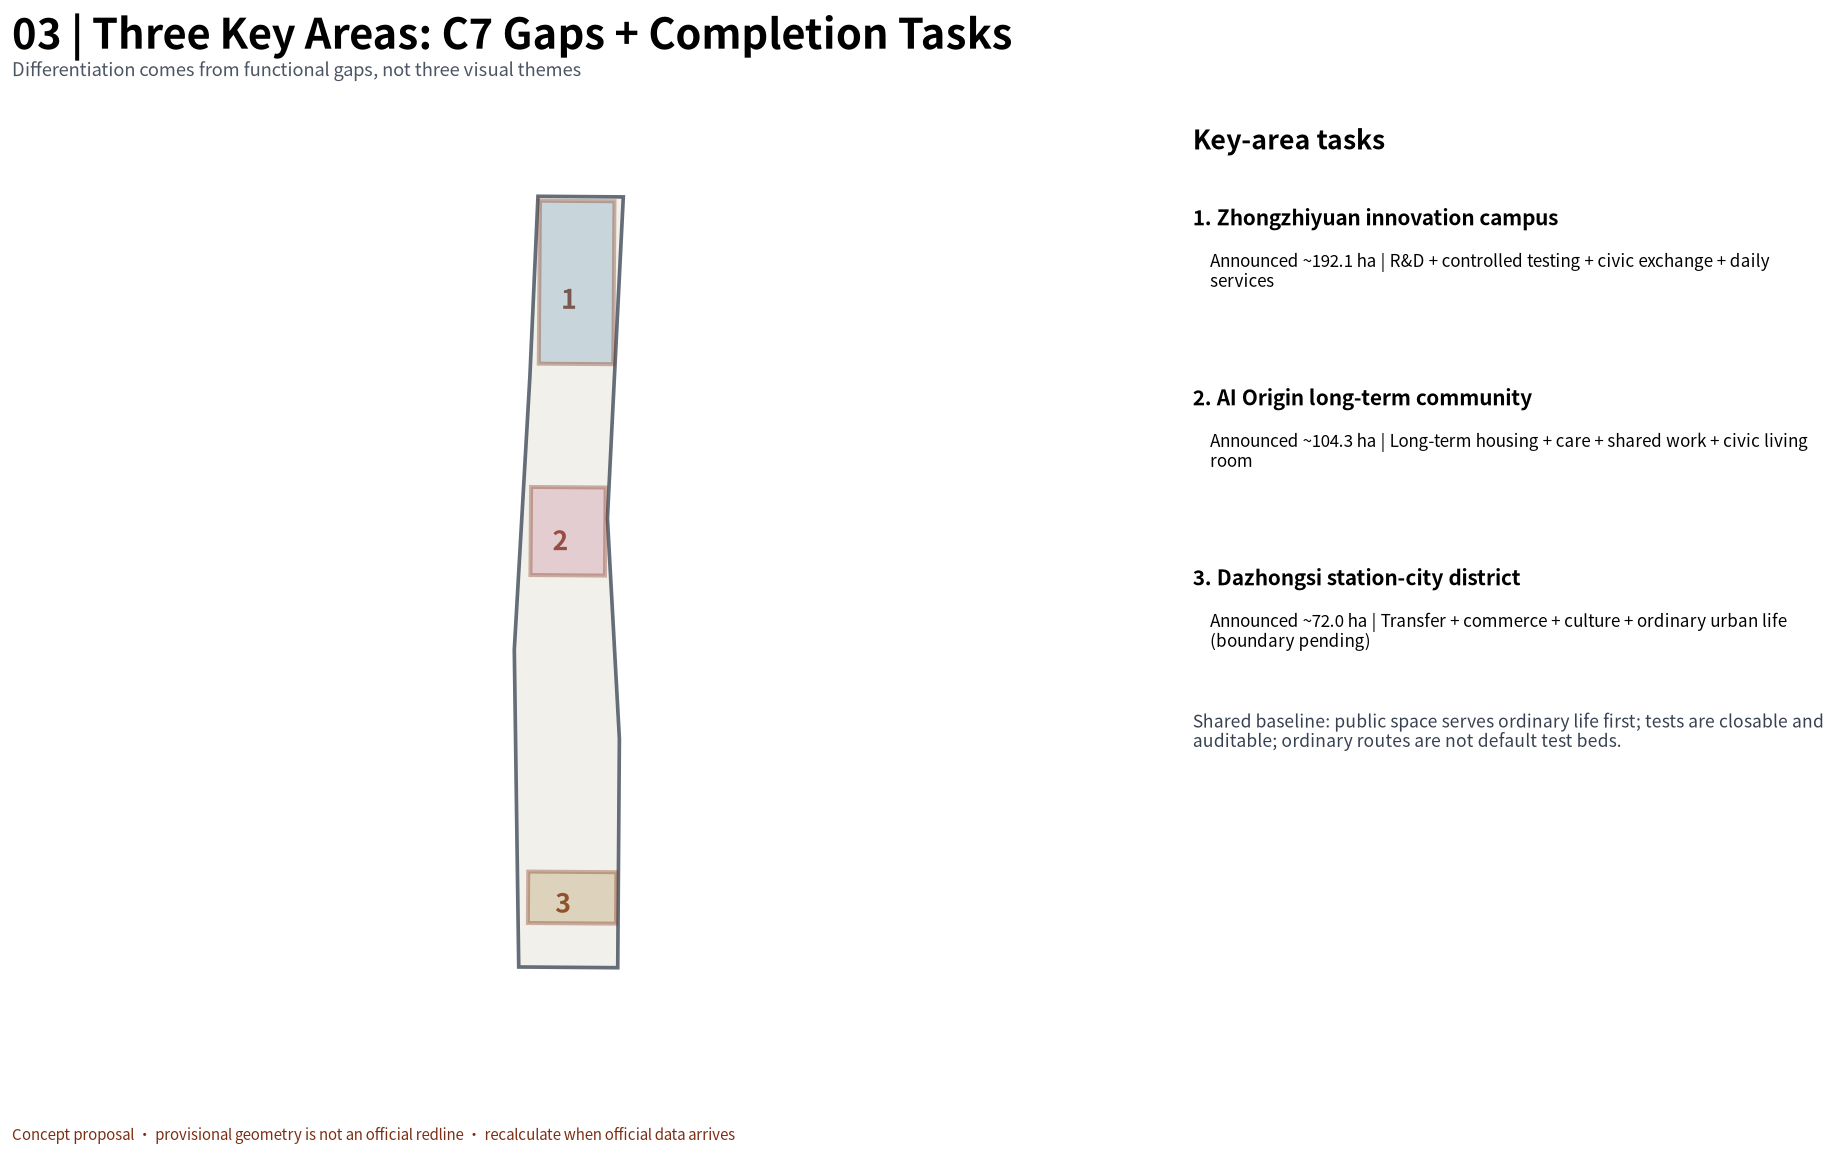
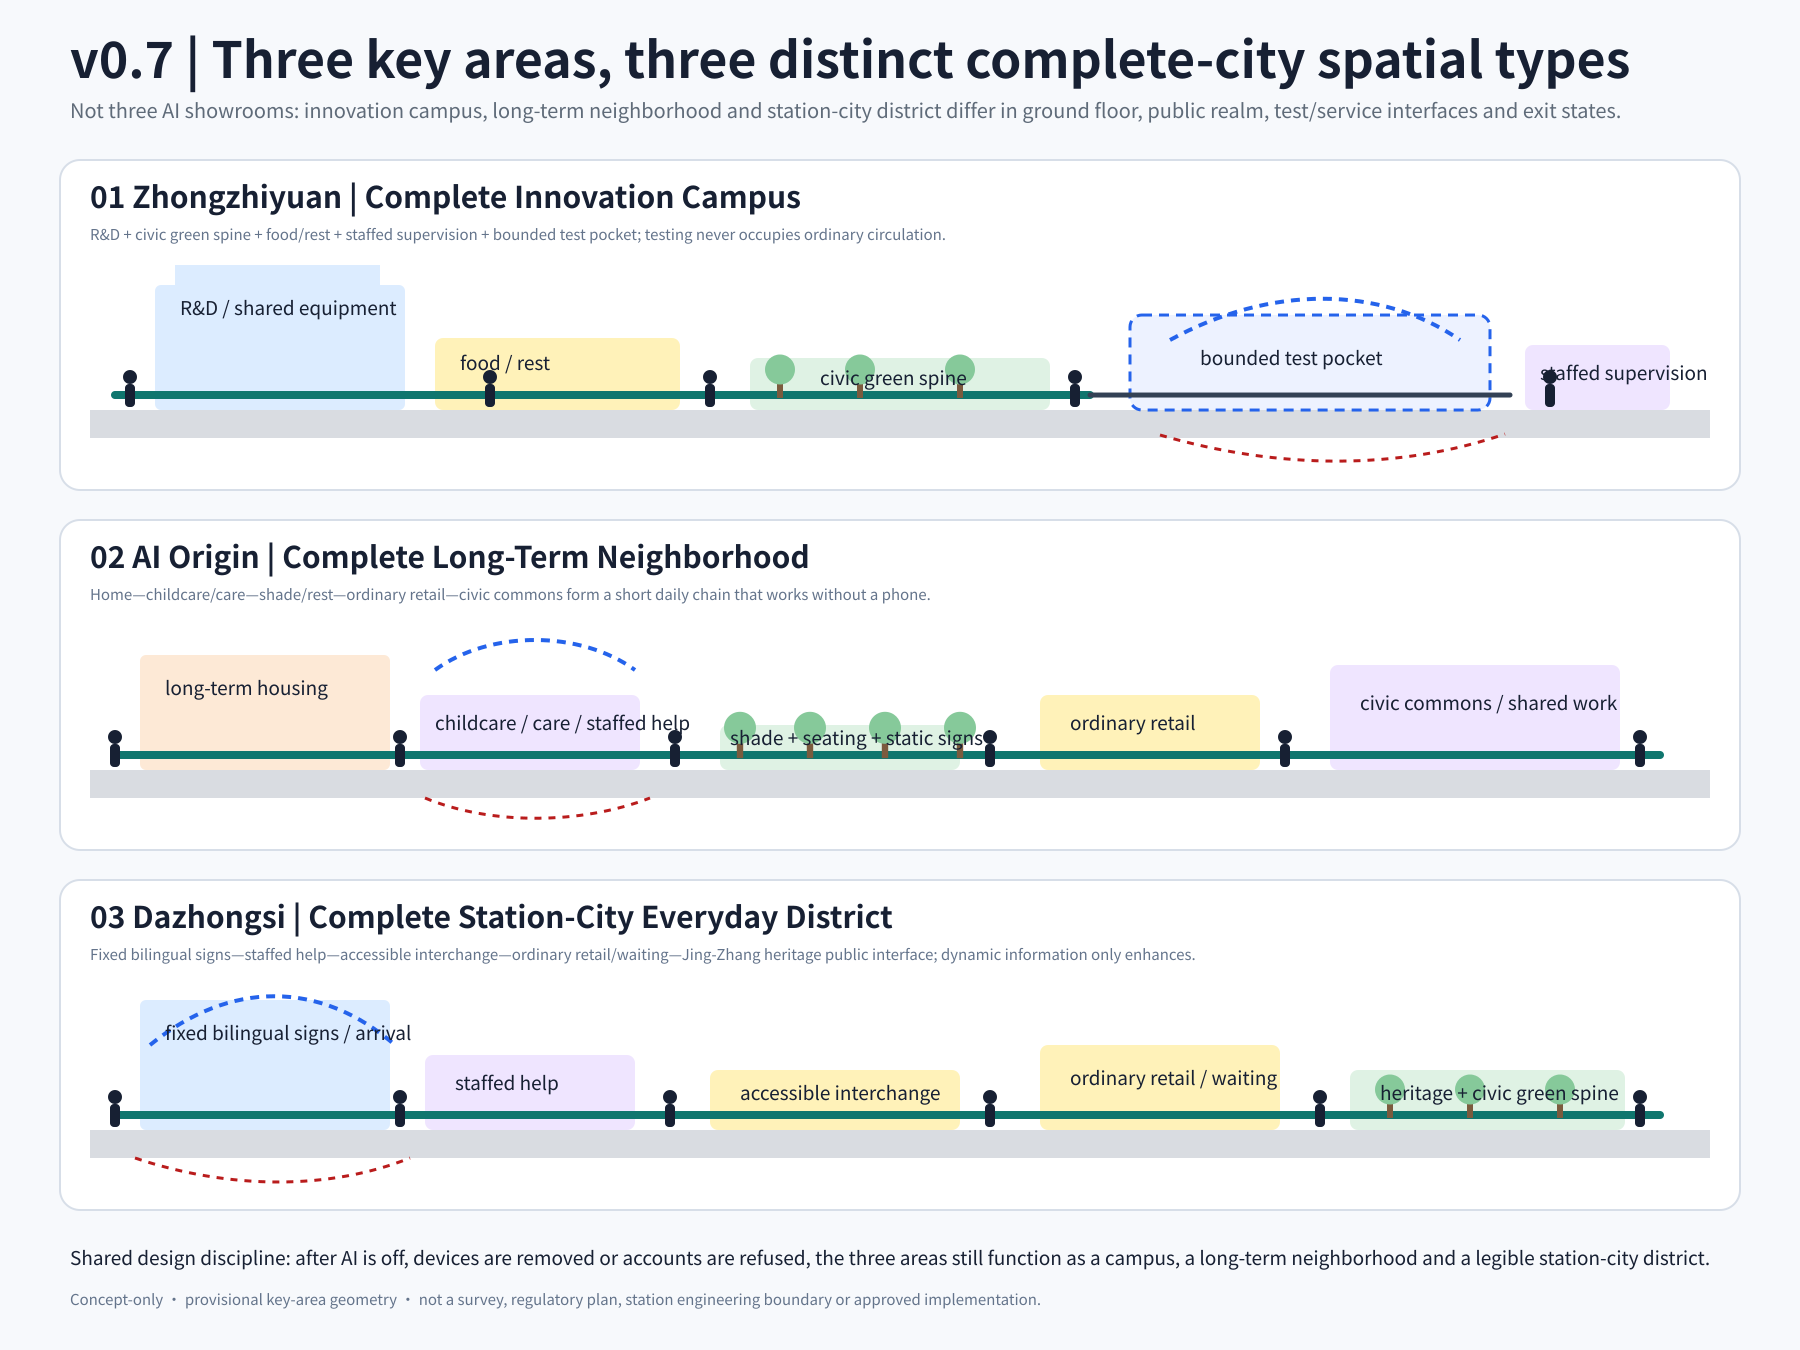
v0.7: spatialize the three key areas

diff --git a/submissions/miyuuteshima984/jingzhang-ai-civic-infrastructure/visual/index.en.html b/submissions/miyuuteshima984/jingzhang-ai-civic-infrastructure/visual/index.en.html
@@ -17,7 +17,7 @@
 
 <section class="sheet"><div class="head"><h2>C7 City Completeness</h2></div><div class="body c7"><div class="card"><b>HOME</b><p class="muted">Long-term housing and family life</p></div><div class="card"><b>LEARN</b><p class="muted">Schools, childcare and lifelong learning</p></div><div class="card"><b>CARE</b><p class="muted">Care, health and human public service</p></div><div class="card"><b>MOVE</b><p class="muted">Walking, cycling, accessibility and transit</p></div><div class="card"><b>GREEN</b><p class="muted">Green space, shade, water and free stay</p></div><div class="card"><b>WORK</b><p class="muted">Research, pilots, offices and service jobs</p></div><div class="card"><b>COMMON LIFE</b><p class="muted">Culture, food, commons and public ground floors</p></div></div></section>
 
-<section class="sheet"><div class="head"><h2>Key Areas</h2></div><div class="body grid"><div class="card"><h3>Zhongzhiyuan · Complete Innovation Campus</h3><p>R&amp;D, pilot production and incubation are paired with daily services, green space, public exchange and controlled testing.</p></div><div class="card"><h3>AI Origin · Complete Long-Term Neighborhood</h3><p>Housing, education, care, shared work, ordinary retail, green space and civic commons are co-equal. <b>Shuangfen Fortress Community</b> is only a place-name easter egg.</p></div><div class="card"><h3>Dazhongsi · Complete Station-City District</h3><p>Ordinary retail, public culture, human services and interchange come before technology spectacle.</p></div></div></section>
+<section class="sheet"><div class="head"><h2>Key Areas</h2></div><div class="body grid"><div class="card"><h3>Zhongzhiyuan · Complete Innovation Campus</h3><p>R&amp;D, pilot production and incubation are paired with daily services, green space, public exchange and controlled testing.</p></div><div class="card"><h3>AI Origin · Complete Long-Term Neighborhood</h3><p>Housing, education, care, shared work, ordinary retail, green space and civic commons are co-equal. <b>Shuangfen Fortress Community</b> is only a place-name easter egg.</p></div><div class="card"><h3>Dazhongsi · Complete Station-City District</h3><p>Ordinary retail, public culture, human services and interchange come before technology spectacle.</p></div></div><div style="margin-top:14px"><img class="evidence-img" src="../assets/figures/key-areas.en.png" alt="Spatial sections for the three key areas"></div></section>
 
 <section class="sheet"><div class="head"><h2>Land-Use Structure</h2></div><div class="body"><p>Thirteen conceptual LAND_USE features combine housing, community services, education, research, culture, commerce and the public green spine into six stitched bands. The codes are design notation, not approved zoning.</p><div class="grid4"><div class="card">0701 Residential<br><b>long-term neighborhoods</b></div><div class="card">0702 Community service<br><b>care and public service</b></div><div class="card">0802/0804 Research &amp; education<br><b>R&amp;D and shared learning</b></div><div class="card">1401 Park green<br><b>Jing-Zhang civic green spine</b></div></div></div></section>
 

diff --git a/submissions/miyuuteshima984/jingzhang-ai-civic-infrastructure/visual/index.html b/submissions/miyuuteshima984/jingzhang-ai-civic-infrastructure/visual/index.html
@@ -17,7 +17,7 @@
 
 <section class="sheet"><div class="head"><h2>C7 城市完整度</h2></div><div class="body c7"><div class="card"><b>居 HOME</b><p class="muted">长期住宅与家庭生活</p></div><div class="card"><b>学 LEARN</b><p class="muted">学校、托育、终身学习</p></div><div class="card"><b>护 CARE</b><p class="muted">照护、健康与人工服务</p></div><div class="card"><b>行 MOVE</b><p class="muted">步行、骑行、无障碍、接驳</p></div><div class="card"><b>绿 GREEN</b><p class="muted">绿地、遮阴、雨洪与停留</p></div><div class="card"><b>工 WORK</b><p class="muted">科研、中试、办公与服务就业</p></div><div class="card"><b>交 COMMON LIFE</b><p class="muted">文化、餐饮、社区客厅与公共首层</p></div></div></section>
 
-<section class="sheet"><div class="head"><h2>重点区域</h2></div><div class="body grid"><div class="card"><h3>众智园 · 完整创新校园</h3><p>研发、中试、孵化与日常服务、绿地、公共交流和受控测试同步组织。</p></div><div class="card"><h3>AI 原点 · 完整长期社区</h3><p>住宅、教育、照护、共享工作、普通商业、绿地与公共客厅并列。<b>爽粉堡垒社区</b>只是地名彩蛋。</p></div><div class="card"><h3>大钟寺 · 完整站城生活区</h3><p>普通商业、公共文化、人工公共服务和交通接驳优先于科技展示。</p></div></div></section>
+<section class="sheet"><div class="head"><h2>重点区域</h2></div><div class="body grid"><div class="card"><h3>众智园 · 完整创新校园</h3><p>研发、中试、孵化与日常服务、绿地、公共交流和受控测试同步组织。</p></div><div class="card"><h3>AI 原点 · 完整长期社区</h3><p>住宅、教育、照护、共享工作、普通商业、绿地与公共客厅并列。<b>爽粉堡垒社区</b>只是地名彩蛋。</p></div><div class="card"><h3>大钟寺 · 完整站城生活区</h3><p>普通商业、公共文化、人工公共服务和交通接驳优先于科技展示。</p></div></div><div style="margin-top:14px"><img class="evidence-img" src="../assets/figures/key-areas.png" alt="三处重点区域的差异化空间剖面"></div></section>
 
 <section class="sheet"><div class="head"><h2>用地分区</h2></div><div class="body"><p>13 个概念 LAND_USE features 将住宅、社区服务、教育、科研、文化、商业与公共绿脊组织成六段双侧织补。所有代码是设计表达，不代表获批用地性质。</p><div class="grid4"><div class="card">居住 0701<br><b>长期社区</b></div><div class="card">社区服务 0702<br><b>照护与公共服务</b></div><div class="card">科研/教育 0802/0804<br><b>研发与共学</b></div><div class="card">公园绿地 1401<br><b>京张公共绿脊</b></div></div></div></section>
 

diff --git a/submissions/miyuuteshima984/jingzhang-ai-civic-infrastructure/proposal.en.md b/submissions/miyuuteshima984/jingzhang-ai-civic-infrastructure/proposal.en.md
@@ -96,6 +96,8 @@ Public exchange space accompanies all three tasks: an open exchange yard in Zhon
 
 ![C7 gaps and design tasks in the three key areas](assets/figures/key-areas.en.png)
 
+The v0.7 fixed key-area figure is no longer a task card alone. It draws the three distinct ground-floor/public-space sections side by side: a research campus with a physically bounded test pocket; a long-term neighborhood with home—care—rest—commons continuity; and a station-city arrival chain with fixed bilingual signs, staffed help, accessible interchange, ordinary retail and heritage public realm.
+
 ## AI Innovation Ecosystem, Personas, and AI+ Scenarios
 
 v0.6 expands the former five grouped personas into nine explicit design-test groups: long-term residents/families; older residents; disabled, mobility-limited or sensory-limited users; children/caregivers; students/researchers; founders/company employees; service workers/commuters; visitors/international users; and people with no smartphone, no account or a deliberate opt-out from digital services. These are used to test benefit, burden, exclusion risk and human fallback, not to claim demographic statistics. [metric:persona_count]

diff --git a/submissions/miyuuteshima984/jingzhang-ai-civic-infrastructure/report/copyright_statement.md b/submissions/miyuuteshima984/jingzhang-ai-civic-infrastructure/report/copyright_statement.md
@@ -101,3 +101,5 @@ Any future third-party image, font, code library, map layer, institutional logo 
 
 - `assets/figures/everyday-journey-sections.svg` / `.en.svg`: submission-original / AI-assisted vector diagram; no third-party logo, image, map tile, font file, identifiable person or proprietary diagram is embedded. Conceptual storyboard only, not observed user behavior.
 - `assets/figures/ai-urban-form-change.svg` / `.en.svg`: submission-original / AI-assisted vector diagram; no third-party logo, image, map tile, font file or proprietary diagram is embedded. Spatial interfaces require later verification against official geometry, field surveys and professional requirements.
+
+- `assets/figures/key-area-spatial-sections.svg` / `.en.svg` and rendered `key-areas.png` / `.en.png`: submission-original / AI-assisted spatial section diagrams. No third-party image, logo, map tile, font file or identifiable person is embedded; all people/buildings/trees are diagrammatic primitives, and the sections are conceptual rather than surveyed existing conditions.

diff --git a/submissions/miyuuteshima984/jingzhang-ai-civic-infrastructure/changelog.md b/submissions/miyuuteshima984/jingzhang-ai-civic-infrastructure/changelog.md
@@ -2,6 +2,7 @@
 
 ## v0.7 - 2026-08-13
 
+- Rebuilt the mandatory bilingual `key-areas.png` core figure as three actual spatial sections—innovation campus, long-term neighborhood and station-city everyday district—so the Review Agent fixed visual packet sees spatial differentiation directly rather than reviewer-oriented task cards.
 - Reversed the v0.6 rubric-first presentation after #2143 merged at Review Agent 76/100 despite all four gates passing: the above-fold reviewer dashboard is demoted to traceability and the first visual returns to actual urban experience.
 - Added bilingual three everyday journey diagrams for Zhongzhiyuan, AI Origin and Dazhongsi: ordinary-city baseline, physical repair, optional AI enhancement and a functioning failure/exit route.
 - Added bilingual AI-urban-form prototypes: bounded test pockets, accessible help thresholds, continuous arrival interfaces, replaceable service nodes, people-first public ground floors and reversible spatial versioning.
